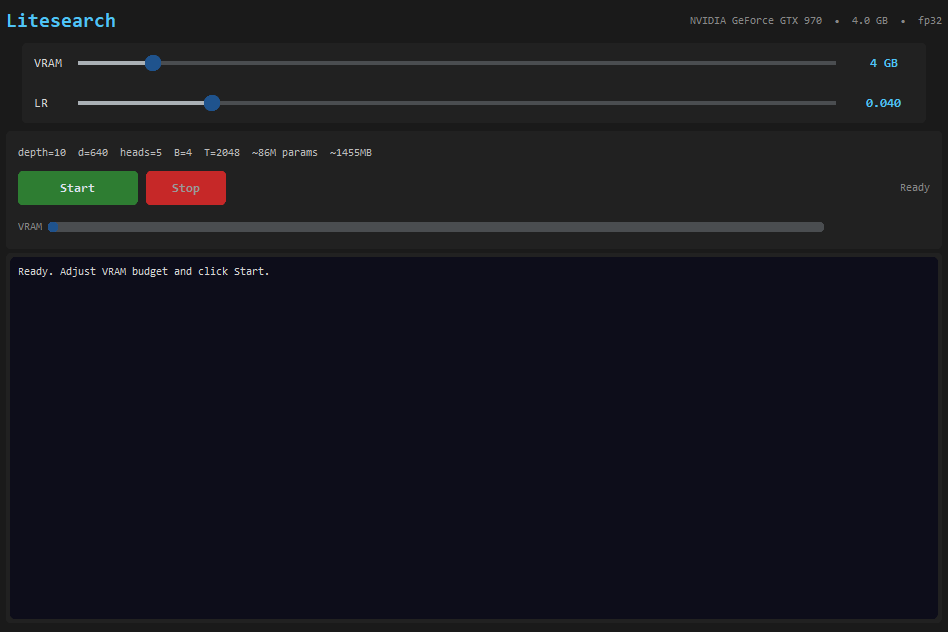
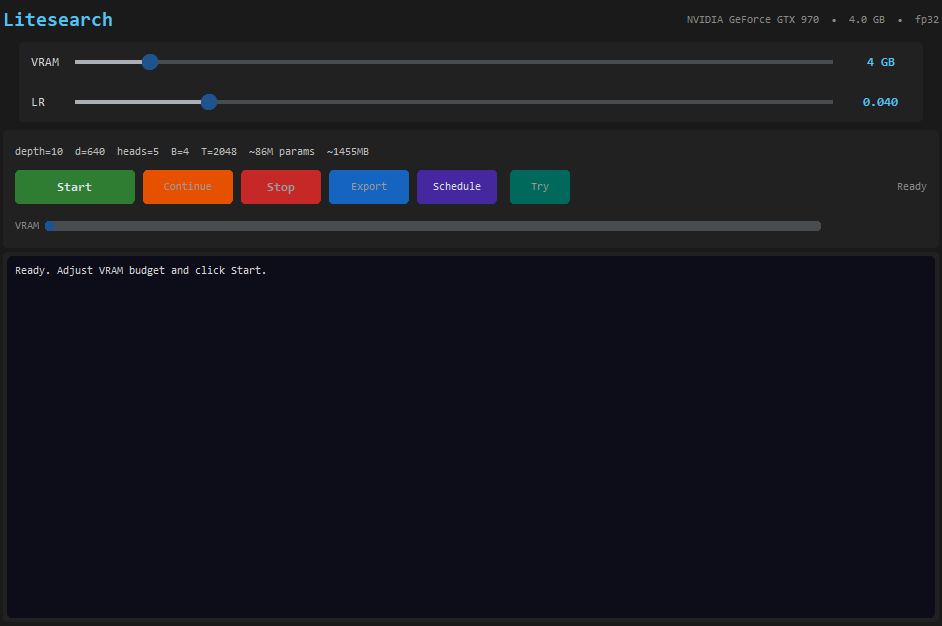
update readme with new features and dashboard screenshot

diff --git a/README.md b/README.md
@@ -10,6 +10,9 @@ The idea: give an AI agent a small but real LLM training setup and let it experi
 - **Consumer GPU support**: Works on GTX 970 through RTX 4090+ (2GB–32GB+ VRAM)
 - **Auto VRAM scaling**: Model size, batch size, and sequence length automatically fit your GPU
 - **GUI dashboard**: CustomTkinter interface with live training log, VRAM bar, and config sliders
+- **Model export**: Save trained models as `.pth` files. Schedule auto-export after N experiments
+- **Try / Chat**: Generate text from your trained model with temperature and top-p controls
+- **Continue training**: Click Continue to train another 5 minutes from where you left off
 - **Pascal support**: Automatic fp32 fallback for GTX 10-series GPUs
 - **Gradient checkpointing**: Always enabled to minimize memory usage
 
@@ -66,8 +69,12 @@ uv run train.py
 **Controls:**
 - **VRAM slider**: Set your GPU's VRAM budget. The model auto-scales to fit, leaving 800MB for the OS.
 - **Matrix LR slider**: Override the Muon optimizer learning rate (default 0.04).
-- **Start**: Begins a training experiment with auto-computed config.
+- **Start**: Begins a new training experiment with auto-computed config.
+- **Continue**: Train another 5 minutes from the current model. Click as many times as you want.
 - **Stop**: Gracefully stops training after the current step.
+- **Export**: Save the trained model as a `.pth` file.
+- **Schedule**: Auto-export after N experiments complete.
+- **Try**: Open a popup to generate text from your trained model.
 
 ## VRAM Auto-Scaling
 
@@ -92,6 +99,10 @@ python train.py --export-dir exports/     # export to directory (auto-named)
 ```
 
 The GUI also has an "Export" button (after training) and "Schedule" button (auto-export after N experiments).
+
+Use the "Try" button to generate text from your trained model with adjustable temperature, max tokens, and top-p.
+
+Use "Continue" to keep training from the current model for another 5 minutes.
 
 ## Running the agent (headless)
 
@@ -123,7 +134,10 @@ pyproject.toml  — dependencies
 - **`kernels` dependency removed** — no custom CUDA kernel dependencies
 - **`customtkinter` added** — for the GUI dashboard
 - **`run_training()` function** — clean API for GUI integration
+- **`continue_training()`** — resume training from a previous model
+- **`generate()`** — text generation with temperature and top-p sampling
 - **`compute_optimal_config()`** — automatic model sizing based on VRAM budget
+- **`export_model()`** — save model weights + config as `.pth`
 
 ## Platform support
 
